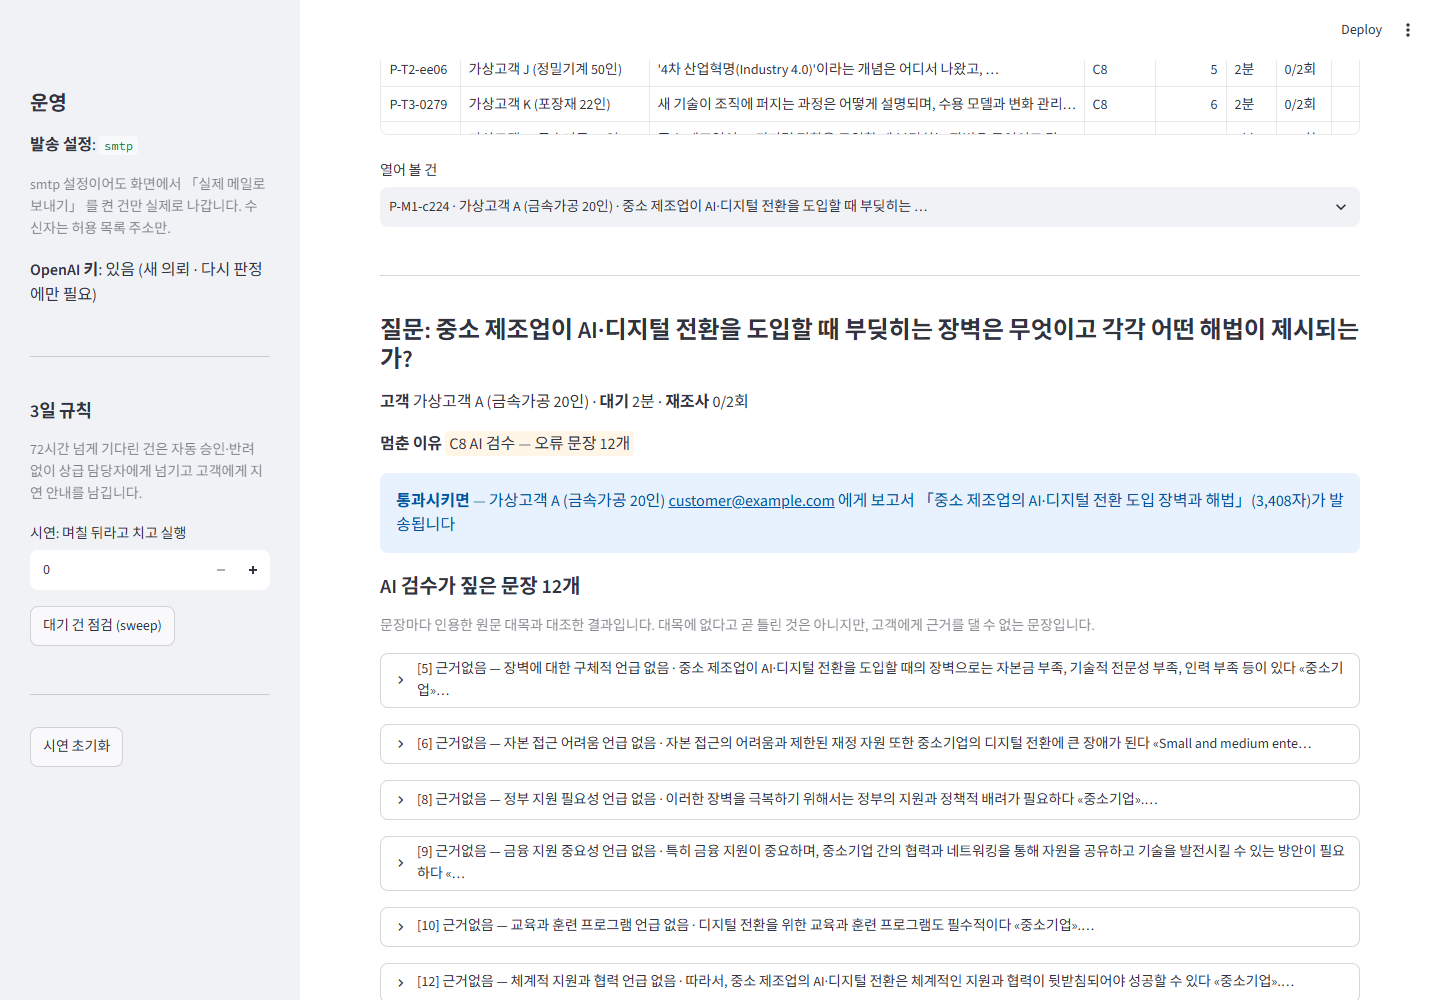
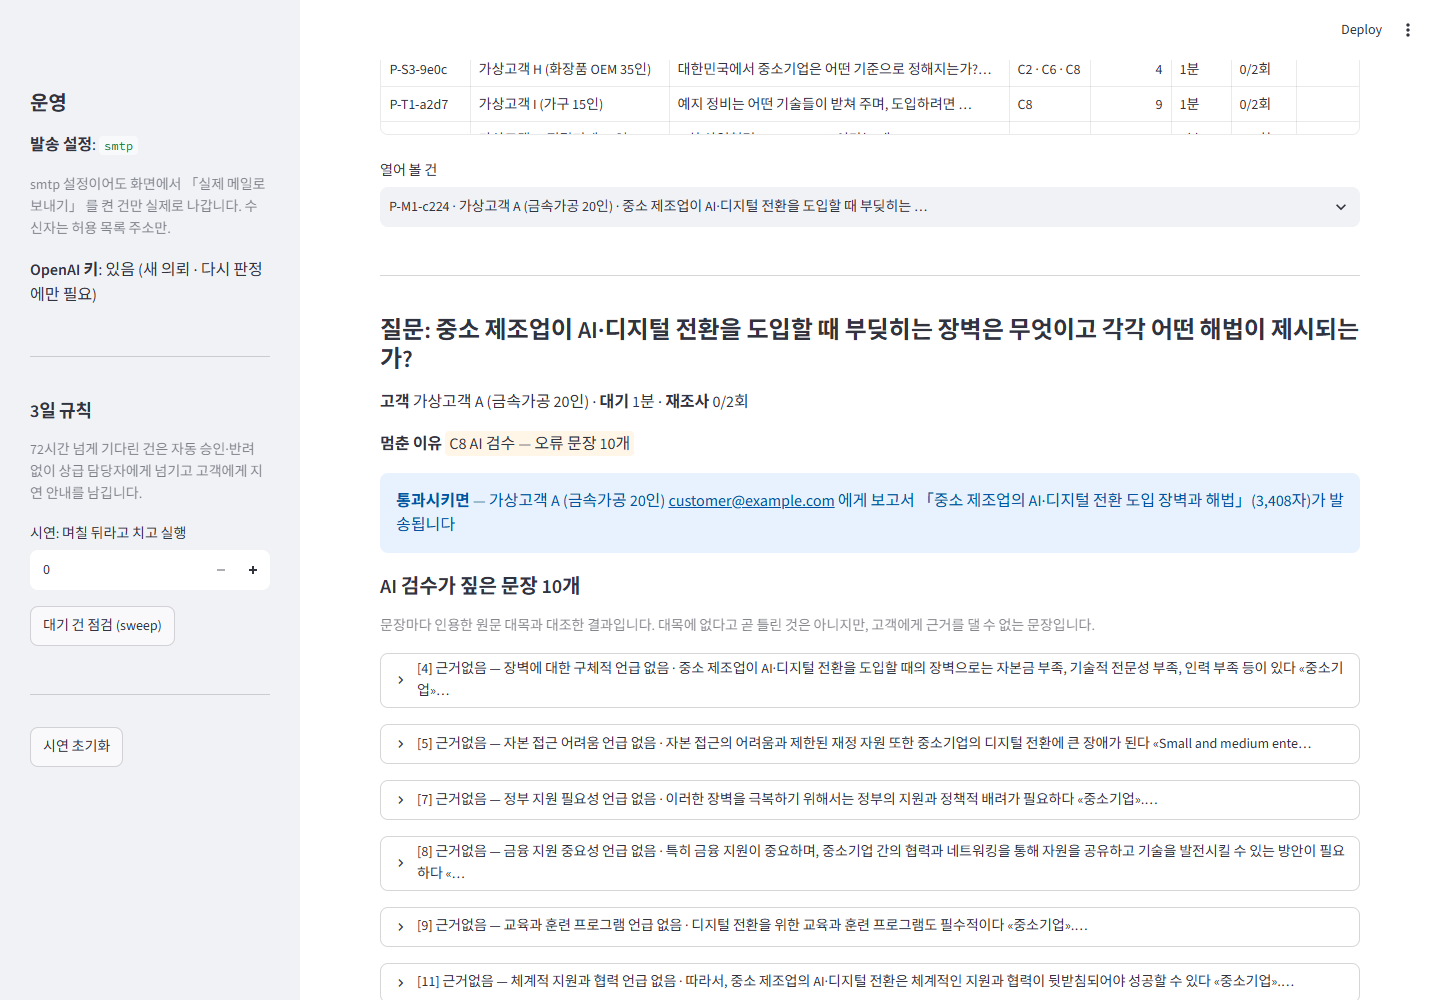
6단계 마무리: C8 문턱 4→3 (이름표 줄 제외 후 놓침 2→4/25 였던 것을 결정 A 취지대로), 기준 설명 수치 · 캡처 갱신
- 문장 오류율 13% 는 판정 도중(1,651문장) 수치였다 — 전체 2,801 고유 문장 기준 22.5% 로 바로잡음

Changed region(s): [[0.2812, 0.062, 0.75, 0.124], [0.2812, 0.899, 0.75, 0.93], [0.8438, 0.062, 0.9062, 0.124]]

diff --git a/app.py b/app.py
@@ -25,7 +25,7 @@ st.set_page_config(page_title="보고서 발송 승인", layout="wide")
     "C2": ("인용 원문에 없는 숫자", "틀린 수치가 출처를 달고 고객에게 나가는 것"),
     "C3": ("지표 경보", "지어낸 제목 · 읽지 않은 문서를 인용하는 것"),
     "C6": ("국내 질문에 해외 근거", "해외 기준이 한국 기준처럼 읽히는 것"),
-    "C8": ("AI 검수 오류 문장 4개 이상", "인용 문서가 뒷받침하지 않는 주장 (가장 흔한 오류)"),
+    "C8": (f"AI 검수 오류 문장 {C.C8_문턱}개 이상", "인용 문서가 뒷받침하지 않는 주장 (가장 흔한 오류)"),
 }
 판정색 = {"근거없음": "orange", "모순": "red", "대상착오": "violet"}
 
@@ -275,11 +275,12 @@ with 탭[3]:
 - 검수에 실패하면(키 없음 · 한도 초과) 통과가 아니라 사람에게 보낸다.
 
 **검증 (4단계, 표본 150건 · 사람 판정 30건)**
-- 개입률 **86%** (150건 중 129건 멈춤, 21건 자동 발송) · 사람 판정 기준 놓침 **2/25** · 헛멈춤 3/5
+- 개입률 **88%** (150건 중 132건 멈춤, 18건 자동 발송) · 사람 판정 기준 놓침 **3/25** · 헛멈춤 3/5
+- C8 문턱은 3. 4 로 올리면 개입률 79% 로 내려가지만 놓침이 4/25 로 는다.
 - 놓침을 막는 쪽을 골랐다. 틀린 보고서가 고객에게 가면 되돌릴 수 없고, 헛멈춤은 검토 시간만 든다.
-- 개입률이 높은 이유는 기준이 아니라 **생성기(딥리서처)** 에 있다 — 문장의 13% 가 근거없음·모순·대상착오였다. 그래서 개입률 대신 **건당 검토 시간**을 줄이는 쪽(짚은 문장부터 보여 주기 · 빼고 발송 버튼)으로 보완했다.
+- 개입률이 높은 이유는 기준이 아니라 **생성기(딥리서처)** 에 있다 — 판정한 고유 문장 2,801개 중 22.5% 가 근거없음·모순·대상착오였다. 그래서 개입률 대신 **건당 검토 시간**을 줄이는 쪽(짚은 문장부터 보여 주기 · 빼고 발송 버튼)으로 보완했다.
 
-**자동으로 나가는 건은 왜 괜찮은가** — C2 · C3 · C6 에 걸리지 않고 AI 검수 오류 문장이 3개 이하인 보고서다. 사람 판정 30건에서 이 조건을 통과한 건 중 사람이 멈췄어야 한 건은 2건이었다(놓침). 0 은 아니다 — 한계로 REPORT 에 적었다.
+**자동으로 나가는 건은 왜 괜찮은가** — C2 · C3 · C6 에 걸리지 않고 AI 검수 오류 문장이 2개 이하인 보고서다 — 출처와 숫자가 원문과 맞고, 원문과 대조해 근거를 못 댄 문장이 한두 개뿐이다. 사람 판정 30건에서 이 조건을 통과한 건 중 사람이 멈췄어야 한 건은 3건이었다(놓침). 0 은 아니다 — 한계로 REPORT 에 적었다.
 
 자세한 표: `docs/evidence/step4_validation.md`
 """)

diff --git a/criteria.py b/criteria.py
@@ -127,7 +127,12 @@ def C7_고위험주제(rec: dict) -> list[str]:
     return [w for w in 고위험어 if w in 글]
 
 
-def C8_AI검수(rec: dict, k: int = 4) -> list[str]:
+# C8 문턱. 4단계에서 4 로 정했다가, 6단계에서 절 이름표 줄을 검수에서 빼고 다시 재니 k=4 의 놓침이 2→4/25 로 늘어
+# 결정 A(놓침을 막는다)의 취지대로 3 으로 낮췄다 (docs/evidence/step4_validation.md 4절).
+C8_문턱 = 3
+
+
+def C8_AI검수(rec: dict, k: int = C8_문턱) -> list[str]:
     """AI 검수(judge.검수 — 문장마다 인용 원문 대목과 대조, gpt-4o)에서 근거없음·모순·대상착오 문장이 k개 이상.
     검수 결과가 없는 기록(검수 전)은 계산하지 않는다. 검수에 실패한 문장이 있으면 확인할 수 없으니 멈춘다."""
     g = rec.get("검수")
@@ -146,7 +151,7 @@ def C8_AI검수(rec: dict, k: int = 4) -> list[str]:
     "C5": ("부족한 절 남음", C5_부족한절남음),
     "C6": ("국내 질문에 해외 근거", C6_국내질문_해외근거),
     "C7": ("고위험 주제어", C7_고위험주제),
-    "C8": ("AI 검수 오류 문장 4개 이상", C8_AI검수),
+    "C8": (f"AI 검수 오류 문장 {C8_문턱}개 이상", C8_AI검수),
 }
 
 # 4단계에서 확정 (docs/evidence/step4_validation.md). 놓침을 막는 쪽(A)을 골랐다 —

diff --git a/validate_criteria.py b/validate_criteria.py
@@ -130,7 +130,7 @@ def main():
         stop = lambda r: code(r) or bool(C.C8_AI검수(r, k))
         fn = sum(1 for r in hs if human[r["run_id"]]["should_stop"] and not stop(r))
         fp = sum(1 for r in hs if not human[r["run_id"]]["should_stop"] and stop(r))
-        L.append(f"| C8 오류 ≥ {k}{' ← 채택' if k == 4 else ''} | {fn}/{n_stop} | {fp}/{len(hs) - n_stop} | "
+        L.append(f"| C8 오류 ≥ {k}{' ← 채택' if k == C.C8_문턱 else ''} | {fn}/{n_stop} | {fp}/{len(hs) - n_stop} | "
                  f"{100 * sum(1 for r in rows if stop(r)) / len(rows):.0f}% |")
     fin = [r for r in rows if C.판정(r)]
     L += ["", f"**최종 기준 {' · '.join(C.켜진기준)}** — 표본 150건 중 {len(fin)}건 멈춤 (개입률 {100*len(fin)/len(rows):.0f}%), "

diff --git a/docs/evidence/step4_validation.md b/docs/evidence/step4_validation.md
@@ -62,12 +62,6 @@
 - **S1 · 역할끔 · 20260923-151332-abcc**
   - 근거없음 (OEE 요소 정의 없음) — 가용성은 실제 가동 시간과 계획된 가동 시간의 비율로 정의되며, 성능은 실제 생산량과 최대 생산량의 비율로, 품질은 생산된 제품 중 결함이 없는 제품의 비율로 정의된다 «Lean 
   - 근거없음 (OEE의 중요성 관련 내용 없음) — OEE는 제조업체가 장비의 성능을 최적화하고 경쟁력을 유지하는 데 필수적인 도구입니다.
-- **M2 · 기본 · 20260923-152241-35cc**
-  - 근거없음 (IIoT 관련 내용 없음) — IIoT는 기계의 상태를 지속적으로 모니터링하여 고장을 사전에 감지하는 데 필요한 데이터를 수집하고 분석하는 기술이다 «Industrial internet of things».
-  - 근거없음 (OEE 구성 요소 언급 없음) — OEE는 가용성, 성능, 품질의 세 가지 요소로 구성되며, 이를 통해 제조 과정에서의 손실을 시각화하고 개선할 수 있다 «Overall equipment effectiveness»
-- **M2 · 배정끔 · 20260923-152303-5348**
-  - 근거없음 (고장 줄이기 언급 없음) — OEE(Overall Equipment Effectiveness)는 설비의 효율성을 높이고 고장을 줄이기 위해 측정하는 것이 중요하다 «Overall equipment effect
-  - 근거없음 (구현에 필요한 구체적 단계 없음) — 이 기술을 구현하기 위해서는 데이터 수집 및 전처리, 조기 결함 탐지, 결함 탐지, 고장 시간 예측, 유지보수 일정 및 자원 최적화가 필요하다 «Predictive maintena
 - **M3 · 배정끔 · 20260923-152600-5164**
   - 근거없음 (대목에 해당 내용 없음) — 품질 관리는 조직, 제품 또는 서비스가 일관되게 의도한 대로 수행되도록 보장하는 시스템이다 «Quality management».
 - **M3 · 구역끔 · 20260923-152628-eddf**
@@ -92,14 +86,14 @@
 |---|---:|---:|---:|
 | C8 오류 ≥ 1 | 1/25 | 4/5 | 97% |
 | C8 오류 ≥ 2 | 3/25 | 4/5 | 91% |
-| C8 오류 ≥ 3 | 3/25 | 3/5 | 88% |
-| C8 오류 ≥ 4 ← 채택 | 4/25 | 2/5 | 79% |
+| C8 오류 ≥ 3 ← 채택 | 3/25 | 3/5 | 88% |
+| C8 오류 ≥ 4 | 4/25 | 2/5 | 79% |
 | C8 오류 ≥ 5 | 9/25 | 2/5 | 63% |
 | C8 오류 ≥ 6 | 13/25 | 2/5 | 55% |
 | C8 오류 ≥ 8 | 19/25 | 1/5 | 37% |
 | C8 오류 ≥ 10 | 23/25 | 0/5 | 21% |
 
-**최종 기준 C2 · C3 · C6 · C8** — 표본 150건 중 118건 멈춤 (개입률 79%), 자동 발송 32건.
+**최종 기준 C2 · C3 · C6 · C8** — 표본 150건 중 132건 멈춤 (개입률 88%), 자동 발송 18건.
 
 - 놓침을 막는 쪽을 골랐다(4단계 결정 A): 틀린 보고서가 고객에게 가면 되돌릴 수 없고, 헛멈춤은 검토 시간만 든다.
 - 사람 판정 🔴(중요 수정) 문장 75개 중 AI 검수가 잡은 것은 22개(29%) — AI 검수는 '인용 원문에 있는가' 를 보고, 사람(과 참고한 AI 검토)은 배경지식으로 사실 자체를 봤다. 기준이 못 잡는 오류가 남는다는 뜻이다.
